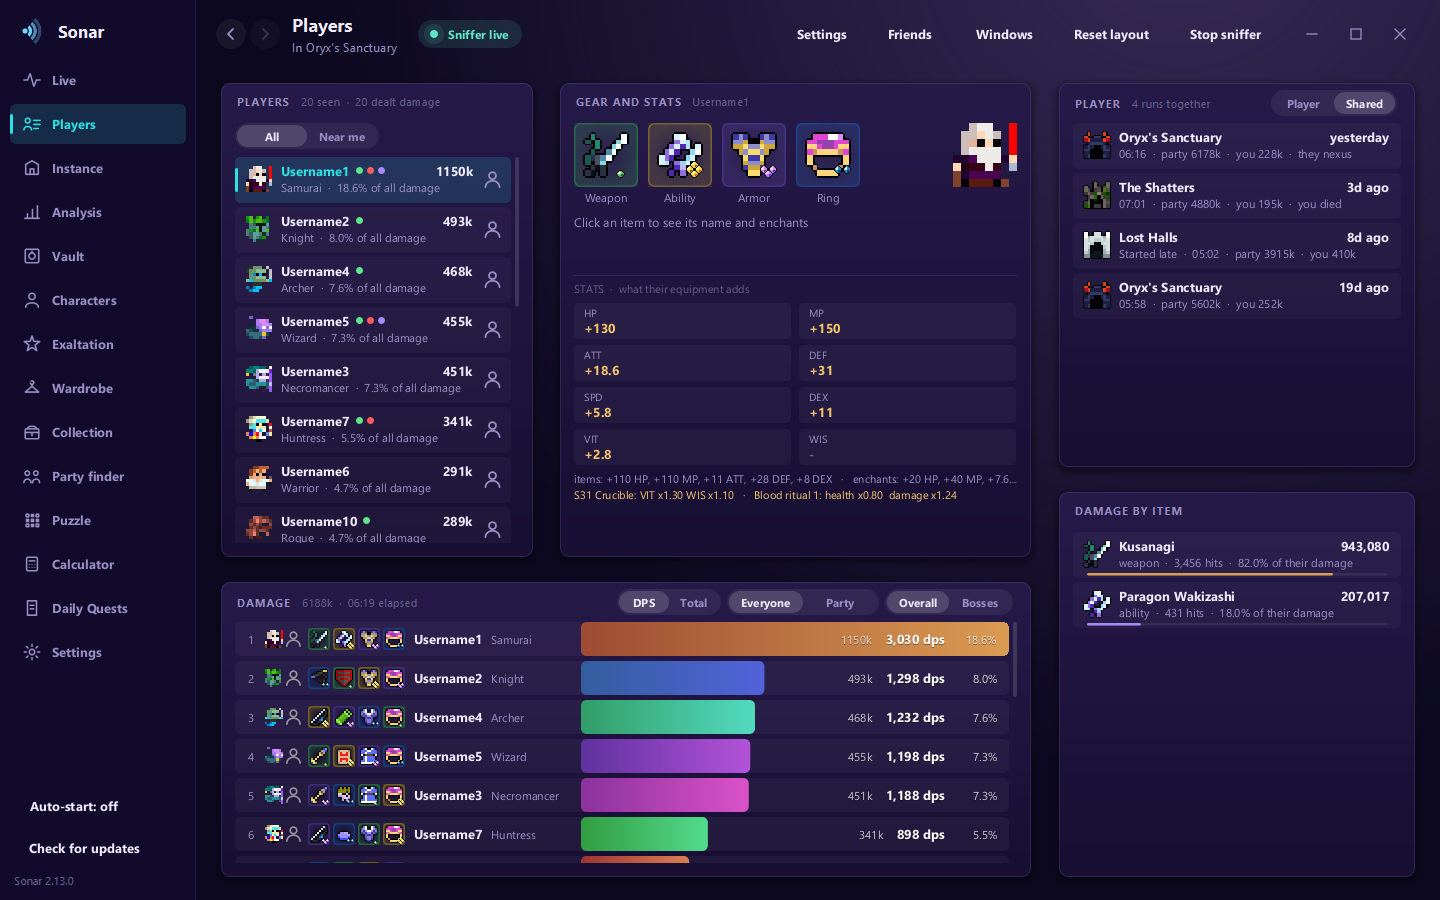
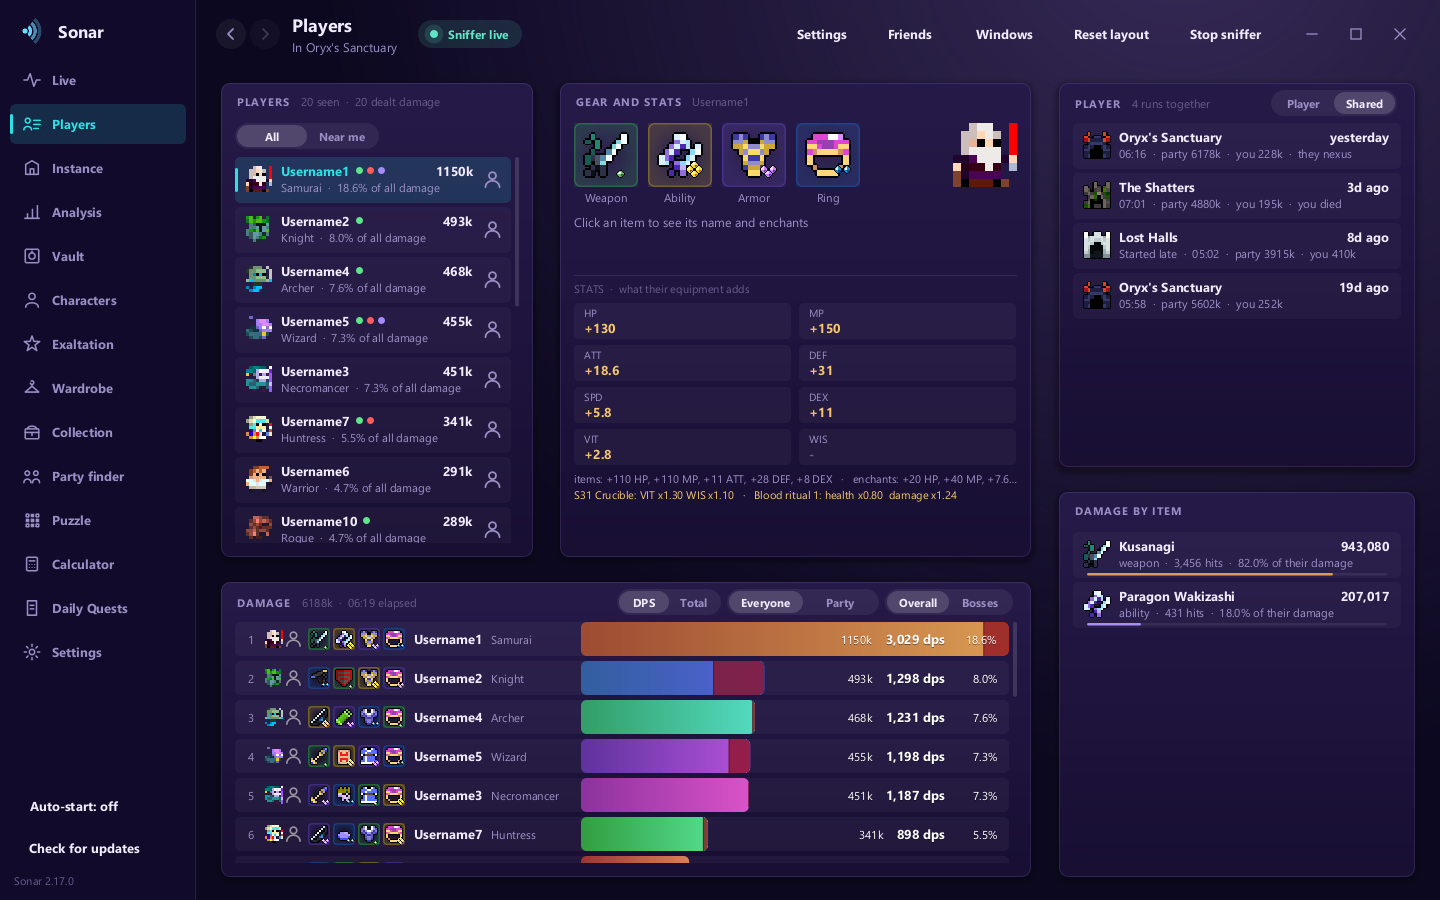
Sonar 2.17.0: words stop opening gaps inside themselves
"Usernam e2", "total dam age", "20 dealt dam age" - text across the app had
been splitting words at arbitrary points, and had been for a long time.

The cause was measured, not guessed, and it was not the font: Swing draws a
label through SwingUtilities2, which takes the antialiasing and fractional
metrics hints from the look and feel rather than from the Graphics it is
handed, so every pane setting them on its own Graphics had no effect on a
label. Without fractional metrics each glyph's advance rounds to a whole
pixel and the error accumulates along a word until it lands as a space.
Drawing the same string with the hint off and on, at zoom 1.0 and 1.5,
reproduces and removes it exactly. Both hints now sit in UIManager.

Also: a stray guarded hit is not an accusation. Almost everybody ends an
Oryx run with a hit or two on the guard because a shot already in flight
lands on it, so the figures go quiet below one percent of that player's
damage - reported exactly, drawn in grey, and left off the shared pictures.
The demo now models a real run: four genuine blasters and a stray hit or two
on nearly everyone else.

The earlier reordering of the font list was a no-op; "Segoe UI Variable
Text" is not installed under that family name and never matched.

233 self-test assertions pass.

Claude-Session: https://claude.ai/code/session_018UYKXESrWTKvUcwzXH1CDy

diff --git a/src/main/java/sonar/ui/LiveDemo.java b/src/main/java/sonar/ui/LiveDemo.java
@@ -61,6 +61,26 @@ final class LiveDemo {
     private static final int[] HITS = {
             3887, 1814, 978, 1512, 1400, 1300, 1641, 1122, 821, 879,
             1053, 1092, 340, 567, 408, 518, 678, 390, 263, 439};
+    /**
+     * What share of each player's damage on Oryx went into his guard, as hundredths of a
+     * percent, and how an O3 run really looks.
+     * <p>
+     * Four people blast it to a degree worth saying out loud, led by a Knight at 28%, and one
+     * more clips it lightly. <b>Everyone else still shows one or two hits.</b> That is not
+     * noise in the data: a shot already in flight when the guard goes up lands on the guard,
+     * so even somebody watching for it and stopping dead ends a run with a hit or two on the
+     * board. A tracker that showed those the same way it shows a blaster would be accusing
+     * the whole party, so the figures go quiet below one percent and only the real ones carry
+     * the red.
+     */
+    private static final int[] GUARD_SHARE = {
+            900, 2800, 0, 200, 1700, 0, 600, 0, 0, 300,
+            0, 0, 0, 0, 0, 0, 0, 0, 0, 0};
+    /** Shots in flight when the guard went up, for the people who were otherwise clean. */
+    private static final int[] GUARD_STRAY = {
+            0, 0, 2, 0, 0, 1, 0, 3, 1, 0,
+            2, 1, 1, 0, 2, 1, 0, 2, 1, 1};
+
     /** What each player took over the run, and what their armour absorbed on top of it. */
     private static final long[] TAKEN = {
             7648, 6227, 7109, 3946, 4814, 4625, 4113, 1903, 5144, 4262,
@@ -227,6 +247,8 @@ final class LiveDemo {
         m.potions.add(stack("Potion of Life", 6, -1, 0, "", false));
         m.potions.add(stack("Potion of Wisdom", 9, -1, 0, "", false));
         long[] sum = new long[PLAYERS.length];
+        long[] guardDmg = new long[PLAYERS.length];
+        int[] guardHit = new int[PLAYERS.length];
         for (int e = 0; e < ENEMIES.length; e++) {
             LiveModel.Target t = new LiveModel.Target();
             t.id = 100 + e;
@@ -242,8 +264,23 @@ final class LiveDemo {
             t.fightMs = t.lastHit - t.firstHit;
             for (int p = 0; p < PLAYERS.length; p++) {
                 if (e > 0 && p % (e + 1) != 0) continue;
-                // only the first enemy is Oryx himself, and his is the only guard in the run
-                t.rows.add(row(p, damage[e][p], e == 0));
+                // Only the first enemy is Oryx, and his is the only guard in the run - so the
+                // guard figures are worked out from what they did to him, and the same
+                // absolute figures follow them onto the whole-instance row. Taking a share of
+                // their run total there would have credited them guard damage on the trash.
+                if (e == 0) {
+                    // the hit count is the same share of the shots they landed on Oryx as the
+                    // damage is of what they dealt him: a guard-phase shot is an ordinary shot
+                    int shots = hitsOn(p, damage[e][p]);
+                    long perHit = Math.max(1, damage[e][p] / Math.max(1, shots));
+                    guardHit[p] = GUARD_SHARE[p] > 0
+                            ? Math.max(1, (int) Math.round(shots * GUARD_SHARE[p] / 10000.0))
+                            : GUARD_STRAY[p];
+                    guardDmg[p] = GUARD_SHARE[p] > 0
+                            ? damage[e][p] * GUARD_SHARE[p] / 10000
+                            : perHit * GUARD_STRAY[p];
+                }
+                t.rows.add(row(p, damage[e][p], e == 0 ? guardDmg[p] : 0, e == 0 ? guardHit[p] : 0));
                 t.total += damage[e][p];
                 sum[p] += damage[e][p];
             }
@@ -264,7 +301,7 @@ final class LiveDemo {
         m.whole.name = "Whole instance";
         m.whole.fightMs = elapsed;
         for (int p = 0; p < PLAYERS.length; p++) {
-            m.whole.rows.add(row(p, sum[p], true));
+            m.whole.rows.add(row(p, sum[p], guardDmg[p], guardHit[p]));
             m.whole.total += sum[p];
         }
         m.whole.rows.sort((a, b) -> Long.compare(b.damage, a.damage));
@@ -398,7 +435,13 @@ final class LiveDemo {
         });
     }
 
-    private static LiveModel.Row row(int p, long damage, boolean guardPhase) {
+    /** How many shots this player's damage on one enemy took, by the same rule {@link #row} uses. */
+    private static int hitsOn(int p, long damage) {
+        return Math.max(1, (int) Math.round(HITS[p]
+                * Math.max(0.05, Math.min(1, damage / (double) Math.max(1, FINAL_DAMAGE[p])))));
+    }
+
+    private static LiveModel.Row row(int p, long damage, long guardDamage, int guardHits) {
         LiveModel.Row r = new LiveModel.Row();
         r.id = p;
         r.name = PLAYERS[p][0];
@@ -463,19 +506,8 @@ final class LiveDemo {
         // three of the roster blast the guard, which is roughly how a real run goes: one
         // person doing most of it, a couple more doing some. Without it the column and the
         // badge have nothing to draw and no screenshot ever shows them.
-        // one who did almost nothing but shoot the guard, one who did a fair bit and one who
-        // caught a little of it, which is roughly the spread a real run produces - and the
-        // first of them is the case the red run has to survive, since it reaches under their
-        // name and their class
-        // the top of the board included on purpose: their bar is full width, so the red run
-        // lands under the figures that sit on the bar's right end - which is the case that
-        // has to be looked at rather than assumed
-        int[] blasters = {0, 1, 4, 6}, blastShare = {41, 78, 21, 6};
-        for (int i = 0; guardPhase && i < blasters.length; i++) {
-            if (p != blasters[i]) continue;
-            r.guardDamage = damage * blastShare[i] / 100;
-            r.guardHits = Math.max(1, hits * blastShare[i] / 100);
-        }
+        r.guardDamage = guardDamage;
+        r.guardHits = guardHits;
         verifyGear(r);
         verifyLook(r);
         return r;

diff --git a/src/main/java/sonar/ui/BreakdownPane.java b/src/main/java/sonar/ui/BreakdownPane.java
@@ -408,13 +408,15 @@ class BreakdownPane extends Pane {
             // both figures, because the hit count is what other trackers call "guarded hits"
             // and it is the one people quote at each other afterwards
             String inside = "  (" + SonarTheme.brief(r.guardDamage)
-                    + "  ·  " + SonarTheme.brief(r.guardHits) + " hits)";
+                    + "  ·  " + SonarTheme.hits(r.guardHits) + ")";
             g.setFont(SonarTheme.bold(11f));
             int insideW = g.getFontMetrics().stringWidth(inside);
             // a full bar reaches under these figures, so they take the paler red where they
             // cross the glass - DANGER on the glass is red on red
+            Color ink = r.guardIncidental() ? SonarTheme.FAINT : SonarTheme.DANGER;
+            Color onGlassInk = r.guardIncidental() ? SonarTheme.MUTED : SonarTheme.GUARD_INK;
             SonarTheme.across(g, inside, l.damage - insideW, mid + 4, guardStart, barEnd, clipTop, clipH,
-                    SonarTheme.DANGER, SonarTheme.GUARD_INK, SonarTheme.DANGER);
+                    ink, onGlassInk, ink);
             g.setFont(SonarTheme.bold(12f));
             g.setColor(SonarTheme.TEXT);
             right(g, figure, l.damage - insideW, mid + 4);
@@ -432,10 +434,9 @@ class BreakdownPane extends Pane {
         cell(g, l.biggest, mid, r.biggestHit > 0 ? SonarTheme.number(r.biggestHit) : "-", SonarTheme.MUTED);
         // damage put into a guard that was up: the number somebody is asked about afterwards,
         // so it is coloured rather than left to be found among the greys
-        cell(g, l.guard, mid, r.guardDamage > 0 ? SonarTheme.number(r.guardDamage) : "-",
-                r.guardDamage > 0 ? SonarTheme.CORAL : SonarTheme.FAINT);
-        cell(g, l.guardHits, mid, r.guardHits > 0 ? SonarTheme.number(r.guardHits) : "-",
-                r.guardHits > 0 ? SonarTheme.CORAL : SonarTheme.FAINT);
+        Color guardInk = r.guardDamage <= 0 || r.guardIncidental() ? SonarTheme.FAINT : SonarTheme.CORAL;
+        cell(g, l.guard, mid, r.guardDamage > 0 ? SonarTheme.number(r.guardDamage) : "-", guardInk);
+        cell(g, l.guardHits, mid, r.guardHits > 0 ? SonarTheme.number(r.guardHits) : "-", guardInk);
         cell(g, l.taken, mid, r.damageTaken >= 0 ? SonarTheme.number(r.damageTaken) : "-",
                 r.damageTaken > 0 ? SonarTheme.CORAL : SonarTheme.FAINT);
         cell(g, l.guarded, mid, r.guarded >= 0 ? SonarTheme.number(r.guarded) : "-",

diff --git a/src/main/java/sonar/ui/SonarTheme.java b/src/main/java/sonar/ui/SonarTheme.java
@@ -295,8 +295,13 @@ public final class SonarTheme {
     }
 
     private static String pickFont() {
+        String override = System.getProperty("sonar.font");
+        if (override != null && !override.isEmpty()) return override;
         String[] installed = GraphicsEnvironment.getLocalGraphicsEnvironment().getAvailableFontFamilyNames();
-        for (String wanted : new String[]{"Segoe UI Variable Text", "Segoe UI", "Inter", "Helvetica Neue"}) {
+        // "Segoe UI Variable Text" used to lead this list. It is not installed on Windows 11
+        // under that family name, so it never matched and never did anything; the gaps words
+        // were opening inside themselves came from a rendering hint, not from the font.
+        for (String wanted : new String[]{"Segoe UI", "Inter", "Helvetica Neue"}) {
             for (String name : installed) {
                 if (name.equals(wanted)) return wanted;
             }
@@ -321,6 +326,15 @@ public final class SonarTheme {
         themeIndex();
         LafManager.install(new SonarLaf());
         UIManager.put("ToolTip.font", font(12.5f));
+        // Swing draws a label's text through its own helper, which takes these two hints from
+        // the look and feel's defaults rather than from the Graphics it is handed - so setting
+        // them on the Graphics, as every custom pane here does, has no effect on a JLabel.
+        // Without fractional metrics the engine rounds each glyph's advance to a whole pixel,
+        // and under the zoom transform the error piles up along a word until it lands as a
+        // space: "Usernam e2", "total dam age". Measured, not guessed: drawing the same string
+        // with the hint off and on, at zoom 1.0 and 1.5, reproduces and removes it exactly.
+        UIManager.put(RenderingHints.KEY_TEXT_ANTIALIASING, RenderingHints.VALUE_TEXT_ANTIALIAS_ON);
+        UIManager.put(RenderingHints.KEY_FRACTIONALMETRICS, RenderingHints.VALUE_FRACTIONALMETRICS_ON);
     }
 
     /**
@@ -520,6 +534,11 @@ public final class SonarTheme {
         if (n >= 1_000_000) return String.format("%.1fM", n / 1_000_000.0);
         if (n >= 10_000) return String.format("%.0fk", n / 1_000.0);
         return number(n);
+    }
+
+    /** A hit count with its own word, short enough for a badge: "1 hit", "350 hits", "1.2k hits". */
+    public static String hits(long n) {
+        return brief(n) + (n == 1 ? " hit" : " hits");
     }
 
     public static String clock(long ms) {

diff --git a/src/main/java/sonar/ui/ResultsImage.java b/src/main/java/sonar/ui/ResultsImage.java
@@ -430,7 +430,7 @@ final class ResultsImage {
         }
         if (intoGuard > 0 && !continued) {
             drawTag(g, tagX, y + 6, SonarTheme.brief(intoGuard) + " INTO GUARD · "
-                    + SonarTheme.brief(intoGuardHits) + " HITS", SonarTheme.CORAL);
+                    + SonarTheme.hits(intoGuardHits).toUpperCase(), SonarTheme.CORAL);
         }
         g.setFont(SonarTheme.font(10.5f));
         g.setColor(SonarTheme.FAINT);
@@ -565,9 +565,9 @@ final class ResultsImage {
         String shown = SonarTheme.fit(r.name, g.getFontMetrics(), room);
         int nameW = g.getFontMetrics().stringWidth(shown);
         String guard = "";
-        if (r.guardDamage > 0) {
+        if (r.guardDamage > 0 && !r.guardIncidental()) {
             String[] tries = {
-                    SonarTheme.brief(r.guardDamage) + " guard · " + SonarTheme.brief(r.guardHits) + " hits",
+                    SonarTheme.brief(r.guardDamage) + " guard · " + SonarTheme.hits(r.guardHits),
                     SonarTheme.brief(r.guardDamage) + " · " + SonarTheme.brief(r.guardHits),
                     SonarTheme.brief(r.guardDamage)};
             for (String option : tries) {

diff --git a/src/main/java/sonar/ui/LiveModel.java b/src/main/java/sonar/ui/LiveModel.java
@@ -470,6 +470,17 @@ final class LiveModel {
          * the guard tally is counted hit by hit, and a bar longer than itself is not a thing
          * to draw.
          */
+        /**
+         * True when the guard figures are a stray shot or two rather than something somebody
+         * did. A shot already in flight when the guard goes up lands on the guard, so almost
+         * every player ends an Oryx run with a hit or two on the board however carefully they
+         * played. Those are worth reporting exactly and worth not shouting about: drawn in
+         * red beside a name they would read as an accusation of the whole party.
+         */
+        boolean guardIncidental() {
+            return guardDamage > 0 && guardShare() < 0.01;
+        }
+
         double guardShare() {
             return damage <= 0 || guardDamage <= 0 ? 0 : Math.min(1, guardDamage / (double) damage);
         }

diff --git a/src/main/java/sonar/ui/Updater.java b/src/main/java/sonar/ui/Updater.java
@@ -34,7 +34,7 @@ import java.util.zip.ZipInputStream;
 final class Updater {
 
     /** Version of this build. Raise it for each release; tools/make-release.ps1 reads it for the zip name. */
-    static final String CURRENT = "2.16.0";
+    static final String CURRENT = "2.17.0";
 
     private static final String REPOSITORY = "https://github.com/JustAutomate-AI/sonar-rotmg";
     private static final String LATEST = REPOSITORY + "/releases/latest";

diff --git a/src/main/java/sonar/version/Version.java b/src/main/java/sonar/version/Version.java
@@ -8,7 +8,7 @@ public class Version {
      * The app's version, the one shown in the left rail and used for release names.
      * Comes from Updater.CURRENT, which is where it is raised.
      */
-    public static final String VERSION = "2.16.0";
+    public static final String VERSION = "2.17.0";
 
     /**
      * The asset-extraction format, which is NOT the app's version and does not move

diff --git a/CHANGELOG.md b/CHANGELOG.md
@@ -2,6 +2,18 @@
 
 Every release of Sonar, newest first. The version number is also shown at the bottom of the app's left rail.
 
+## 2.17.0
+
+**Words stop opening gaps inside themselves**
+- *Usernam e2*. *total dam age*. *20 dealt dam age*. Text all over Sonar had been splitting words at arbitrary points, and it has been doing it for a long time.
+- The cause, measured rather than guessed: Swing draws a label's text through its own helper, which takes the antialiasing and fractional-metrics hints from the look and feel rather than from the Graphics it is handed - so every custom pane setting them had no effect on a label. Without fractional metrics the engine rounds each glyph's advance to a whole pixel, and under the zoom transform that error piles up along a word until it lands as a space. Drawing the same string with the hint off and on, at zoom 1.0 and 1.5, reproduces and removes it exactly.
+- Both hints are now set in the look and feel's defaults, so every piece of text in the app is measured the way the panes always intended.
+
+**A stray guarded hit is not an accusation**
+- Almost everybody finishes an Oryx run with a hit or two on the guard, however carefully they played: a shot already in flight when the guard goes up lands on the guard. A tracker that drew those in red beside a name would be accusing the whole party of blasting.
+- So the figures go quiet below one percent of that player's damage. They are still reported exactly - *(626 · 2 hits)* - just in grey rather than red, and the shared pictures leave them off the rows entirely. Above that threshold nothing changes.
+- *1 hits* now reads *1 hit*.
+
 ## 2.16.0
 
 **The guard's red, settled**
